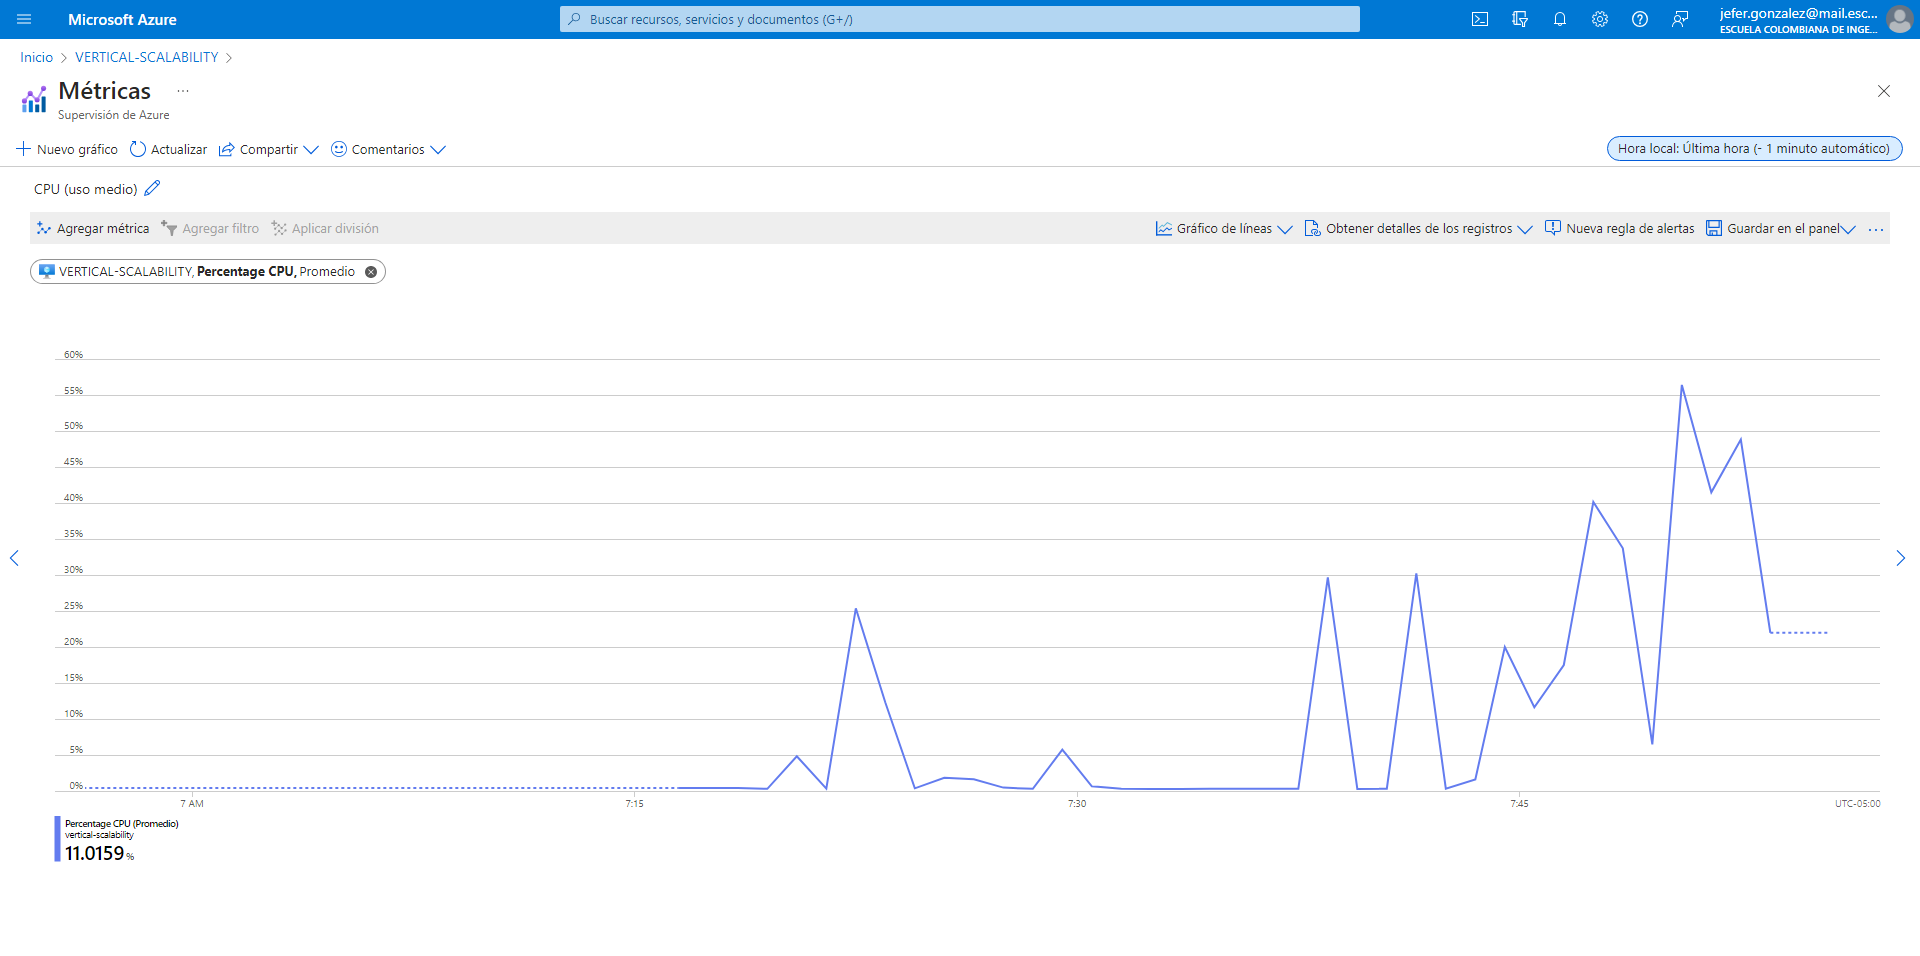
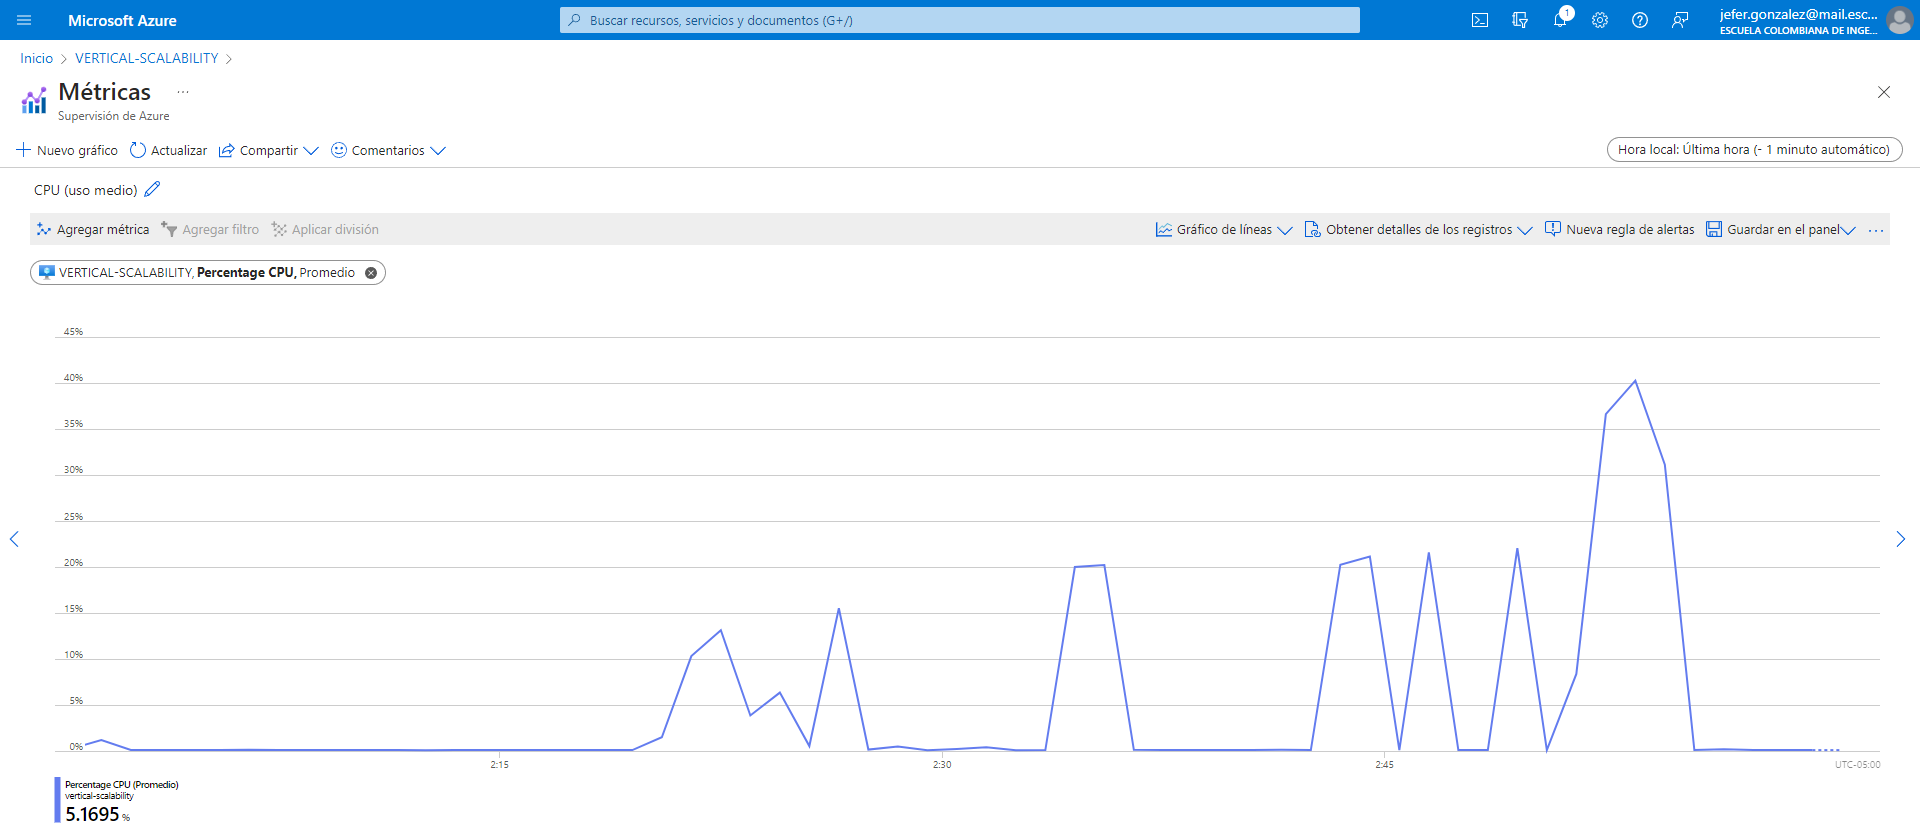
Laboratorio 9 ARSW

diff --git a/README.md b/README.md
@@ -47,26 +47,45 @@ Cuando un conjunto de usuarios consulta un enésimo número (superior a 1000000)
 ![](images/part1/part1-vm-3000InboudRule.png)
 
 7. La función que calcula en enésimo número de la secuencia de Fibonacci está muy mal construido y consume bastante CPU para obtener la respuesta. Usando la consola del Browser documente los tiempos de respuesta para dicho endpoint usando los siguintes valores:
-    * 1000000
-![Parte1-7A.png](images/part1/Parte1-7A.png)
-    * 1010000
-![Parte1-7B.png](images/part1/Parte1-7B.png)
-    * 1020000
-![Parte1-7C.png](images/part1/Parte1-7C.png)
-    * 1030000
-![Parte1-7D.png](images/part1/Parte1-7D.png)
-    * 1040000
-![Parte1-7E.png](images/part1/Parte1-7E.png)
-    * 1050000
-![Parte1-7F.png](images/part1/Parte1-7F.png)
-    * 1060000
-![Parte1-7G.png](images/part1/Parte1-7G.png)
-    * 1070000
-![Parte1-7H.png](images/part1/Parte1-7H.png)
-    * 1080000
-![Parte1-7I.png](images/part1/Parte1-7I.png)
-    * 1090000    
-![Parte1-7J.png](images/part1/Parte1-7J.png)
+* 1000000
+   
+    ![Parte1-7A.png](images/part1/Parte1-7A.png)
+
+* 1010000
+   
+    ![Parte1-7B.png](images/part1/Parte1-7B.png)
+
+* 1020000
+      
+    ![Parte1-7C.png](images/part1/Parte1-7C.png)
+    
+* 1030000
+    
+    ![Parte1-7D.png](images/part1/Parte1-7D.png)
+   
+* 1040000
+       
+    ![Parte1-7E.png](images/part1/Parte1-7E.png)
+     
+* 1050000
+          
+    ![Parte1-7F.png](images/part1/Parte1-7F.png)
+        
+* 1060000
+             
+    ![Parte1-7G.png](images/part1/Parte1-7G.png)
+
+* 1070000
+* 
+    ![Parte1-7H.png](images/part1/Parte1-7H.png)
+              
+* 1080000
+   
+    ![Parte1-7I.png](images/part1/Parte1-7I.png)
+                 
+* 1090000    
+   
+    ![Parte1-7J.png](images/part1/Parte1-7J.png)
 
 8. Dírijase ahora a Azure y verifique el consumo de CPU para la VM. (Los resultados pueden tardar 5 minutos en aparecer).
 
@@ -89,26 +108,45 @@ Cuando un conjunto de usuarios consulta un enésimo número (superior a 1000000)
 
 11. Una vez el cambio se vea reflejado, repita el paso 7, 8 y 9.
 
+* 1000000
+
+  ![Parte1-11A.png](images/part1/Parte1-11A.png)
+
 * 1010000
-  ![Parte1-7A.png](images/part1/Parte1-11A.png)
-* 1010000
-  ![Parte1-7B.png](images/part1/Parte1-11B.png)
+
+  ![Parte1-11B.png](images/part1/Parte1-11B.png)
+
 * 1020000
-  ![Parte1-7C.png](images/part1/Parte1-11C.png)
+
+  ![Parte1-11C.png](images/part1/Parte1-11C.png)
+
 * 1030000
-  ![Parte1-7D.png](images/part1/Parte1-11D.png)
+
+  ![Parte1-11D.png](images/part1/Parte1-11D.png)
+
 * 1040000
-  ![Parte1-7E.png](images/part1/Parte1-11E.png)
+
+  ![Parte1-11E.png](images/part1/Parte1-11E.png)
+
 * 1050000
-  ![Parte1-7F.png](images/part1/Parte1-11F.png)
+
+  ![Parte1-11F.png](images/part1/Parte1-11F.png)
+
 * 1060000
-  ![Parte1-7G.png](images/part1/Parte1-11G.png)
+
+  ![Parte1-11G.png](images/part1/Parte1-11G.png)
+
 * 1070000
-  ![Parte1-7H.png](images/part1/Parte1-11H.png)
+
+  ![Parte1-11H.png](images/part1/Parte1-11H.png)
+
 * 1080000
-  ![Parte1-7I.png](images/part1/Parte1-11I.png)
-* 1090000    
-  ![Parte1-7J.png](images/part1/Parte1-11J.png)
+
+  ![Parte1-11I.png](images/part1/Parte1-11I.png)
+
+* 1090000
+
+  ![Parte1-11J.png](images/part1/Parte1-11J.png)
 
 12. Evalue el escenario de calidad asociado al requerimiento no funcional de escalabilidad y concluya si usando este modelo de escalabilidad logramos cumplirlo.
 13. Vuelva a dejar la VM en el tamaño inicial para evitar cobros adicionales.
@@ -117,9 +155,43 @@ Cuando un conjunto de usuarios consulta un enésimo número (superior a 1000000)
 
 1. ¿Cuántos y cuáles recursos crea Azure junto con la VM?
 
+Se crean 7 recursos los cuales son:
+
+![Parte1-P1.png](images/part1/Parte1-P1.png)
+
 2. ¿Brevemente describa para qué sirve cada recurso?
+
+- **Máquina virtual:** Instancia de un sistema operativo que se ejecuta en la nube. Puede ser Windows o Linux y proporciona recursos informáticos, como CPU, memoria, almacenamiento y red, de manera virtualizada.  Las máquinas virtuales se pueden utilizar para ejecutar una variedad de aplicaciones y servicios, como sitios web, aplicaciones empresariales, bases de datos y análisis.
+- **Dirección IP pública:** Es una dirección IP única y accesible públicamente asignada a recursos como máquinas virtuales. Las direcciones IP públicas se utilizan para identificar dispositivos en Internet y permitir que se comuniquen entre sí.
+- **Grupo de seguridad de red:** Es un conjunto de reglas que controla el tráfico de red hacia y desde los recursos en una red virtual. Define reglas de filtrado de red que permiten o deniegan el tráfico basándose en la dirección IP, el puerto y el protocolo.
+- **Red virtual:** Es una red privada que se ejecuta en la nube. Las redes virtuales se utilizan para aislar los recursos de la nube y proporcionar seguridad.
+- **Interfaz de red:** Es un componente que conecta una máquina virtual a una red virtual. Contiene configuraciones de red, como direcciones IP y reglas de seguridad, y actúa como punto de conexión para la comunicación de red.
+- **Clave SSH:** Es una clave de cifrado que se utiliza para autenticar a los usuarios de SSH. SSH es un protocolo de red seguro que se utiliza para conectarse a máquinas virtuales y otros dispositivos.
+- **Disco:** Es un dispositivo de almacenamiento que se utiliza para almacenar datos. Los discos se pueden utilizar para almacenar datos de máquinas virtuales, aplicaciones y otros recursos de la nube.
+
 3. ¿Al cerrar la conexión ssh con la VM, por qué se cae la aplicación que ejecutamos con el comando `npm FibonacciApp.js`? ¿Por qué debemos crear un *Inbound port rule* antes de acceder al servicio?
-4. Adjunte tabla de tiempos e interprete por qué la función tarda tando tiempo.
+
+* Al cerrar la conexión SSH, se cierra la sesión SSH, que es el proceso que inicia la ejecución de la aplicación. Todos los procesos que se ejecutan como hijos de este proceso también se cierran, lo que incluye a la aplicación FibonacciApp.js.
+* Un Inbound port rule es una regla que permite que el tráfico de la red llegue a un puerto específico de la máquina virtual. En este caso, el puerto que debemos abrir es el 3000, ya que es el puerto en el que la aplicación FibonacciApp.js está escuchando.
+El Inbound port rule es necesario para que los clientes puedan acceder a la aplicación FibonacciApp.js. Sin este regla, el tráfico de la red será bloqueado por el firewall de la máquina virtual.
+
+6. Adjunte tabla de tiempos e interprete por qué la función tarda tanto tiempo.
+
+| Número de la secuencia de<br/>Fibonacci | Tiempo (s) B1ls | Tiempo (s) B2ms |
+|-----------------------------------------|-----------------|-----------------|
+| 1000000                                 | 12.18           | 8.86            |
+| 1010000                                 | 12.46           | 8.92            |
+| 1020000                                 | 12.55           | 9.18            |
+| 1030000                                 | 13.03           | 9.32            |
+| 1040000                                 | 13.21           | 9.41            |
+| 1050000                                 | 13.49           | 9.56            |
+| 1060000                                 | 13.80           | 9.69            |
+| 1070000                                 | 14.10           | 9.97            |
+| 1080000                                 | 15.46           | 10.17           |
+| 1090000                                 | 16.59           | 10.36           |
+
+La función tarda mucho tiempo en calcular los números de Fibonacci porque utiliza un método iterativo. Este método consiste en calcular cada número de Fibonacci a partir de los dos anteriores. Por ejemplo, para calcular el número 1000000, la función debe calcular primero los números 999999, 999998, ..., 0. Esto significa que la función debe realizar muchas operaciones matemáticas, lo que lleva tiempo.
+
 5. Adjunte imágen del consumo de CPU de la VM e interprete por qué la función consume esa cantidad de CPU.
 
 * Tamaños B1ls
@@ -130,6 +202,9 @@ Cuando un conjunto de usuarios consulta un enésimo número (superior a 1000000)
 
 ![Parte1-11K.png](images/part1/Parte1-11K.png)
 
+El consumo de CPU de la función Fibonacci se debe a que el algoritmo se ejecuta de manera recursiva. Esto significa que la función se llama a sí misma repetidamente, lo que genera una gran cantidad de llamadas a la CPU.
+En el caso específico de la implementación de la función Fibonacci que se está utilizando, no se utiliza ninguna técnica de optimización para reducir el consumo de CPU. Esto significa que la función se ejecuta de manera completamente secuencial, sin que se aprovechen los recursos del procesador de manera eficiente.
+
 7. Adjunte la imagen del resumen de la ejecución de Postman. 
 
 * Tamaños B1ls
@@ -138,17 +213,55 @@ Cuando un conjunto de usuarios consulta un enésimo número (superior a 1000000)
 
 * Tamaños B2ms
 
-![Parte1-P7B.png](images/part1/Parte1-P7B.png)
+![Parte1-P7B1.png](images/part1/Parte1-P7B1.png)
+
 
 Interprete:
 * Tiempos de ejecución de cada petición.
+
+    El tiempo de ejecución total usando el tamaño B1ls es de 2m 3.2s, en el cual el promedio de respuesta para cada petición fue de 12.2s. Al cambiar el tamaño a B2ms se reduce el tiempo de ejecución total a 1m 35.s y el tiempo de respuesta promedio para las peticiones fue de 10.3s.
+
 * Si hubo fallos documentelos y explique.
-   
-7. ¿Cuál es la diferencia entre los tamaños `B2ms` y `B1ls` (no solo busque especificaciones de infraestructura)?
-8. ¿Aumentar el tamaño de la VM es una buena solución en este escenario?, ¿Qué pasa con la FibonacciApp cuando cambiamos el tamaño de la VM?
-9. ¿Qué pasa con la infraestructura cuando cambia el tamaño de la VM? ¿Qué efectos negativos implica?
+
+    ![Parte1-P7B2.png](images/part1/Parte1-P7B2.png)
+
+
+    Cuando se cambio al tamaño B2ms se presentaron errores (Error ECONNRESET: El servidor cerró la conexión de una manera que probablemente no era normal), estos fallos se deben a que se genera una alta concurrencia en las peticiones, lo que provoca que la VM no pueda responder a todas las solicitudes a tiempo.
+
+
+8. ¿Cuál es la diferencia entre los tamaños `B2ms` y `B1ls` (no solo busque especificaciones de infraestructura)?
+
+    La diferencia entre los tamaños B2ms y B1ls radica en sus especificaciones de infraestructura, pero también en otros aspectos que son importantes a tener en cuenta, como la escalabilidad, el rendimiento y la disponibilidad.
+    
+    **Especificaciones de infraestructura**
+
+    ![Parte1-P8.png](images/part1/Parte1-P8.png)
+
+    **Escalabilidad:** El B2ms tiene una mayor capacidad de escalabilidad que el B1ls. Esto significa que puede manejar mayores volúmenes de datos y procesamiento más intensivo. 
+    
+    **Rendimiento:** El B2ms también tiene un rendimiento superior al B1ls. Esto significa que puede ejecutar tareas de manera más rápida y eficiente.
+    
+    **Disponibilidad:** El B1ls es más barato que el B2ms, pero también tiene una menor disponibilidad. Esto significa que es más probable que experimente tiempos de inactividad o errores.
+
+9. ¿Aumentar el tamaño de la VM es una buena solución en este escenario?, ¿Qué pasa con la FibonacciApp cuando cambiamos el tamaño de la VM?
+
+   Aumentar el tamaño de la VM no es una buena solución para mejorar el tiempo de respuesta de la aplicación FibonacciApp.js, ya que la aplicación no está optimizada para aprovechar los recursos de una VM de mayor tamaño. Para mejorar el tiempo de respuesta, se debe optimizar el código de la aplicación para que se ejecute en paralelo o para que utilice una estructura de datos más eficiente.
+
+10. ¿Qué pasa con la infraestructura cuando cambia el tamaño de la VM? ¿Qué efectos negativos implica?
+
+    Cuando se cambia el tamaño de una máquina virtual, esta se reinicia. Esto implica que la aplicación que se ejecuta en la máquina se detiene temporalmente, lo que puede provocar una pérdida de disponibilidad. Además, al reiniciar la máquina, se debe volver a iniciar el servicio que se ejecuta en ella.
+
 10. ¿Hubo mejora en el consumo de CPU o en los tiempos de respuesta? Si/No ¿Por qué?
+
+    Si hubo mejora en el consumo de CPU, cuando se tenía el tamaño de B1ls llego hasta un consumo de 40%, mientras que con el tamaño B2ms llegó hasta un poco mas de 20%.
+    En los tiempos de respuesta también hubo una disminución se pasó de un tiempo de respuesta promedio de las peticiones de 12.2s a 10.3s.
+    Estas mejoras se deben a que las máquinas con mayor tamaño tienen más recursos de procesamiento, lo que permite que las aplicaciones soporten más cálculos y conexiones.
+
 11. Aumente la cantidad de ejecuciones paralelas del comando de postman a `4`. ¿El comportamiento del sistema es porcentualmente mejor?
+
+    ![Parte1-P7B1.png](images/part1/Parte1-P11B.png)
+
+  Al cambiar la cantidad de ejecuciones paralelas del comando de postman a `4` no se obtuvo mejoras en el sistema, ya que se aumentó el tiempo promedio de respuesta de 10.3s a 24.1s y el tiempo total pasó de 1m 35.1s a 3m 17s. Además, se obtuvieron la misma cantidad de fallos al realizar la prueba de carga con newman. 
 
 ### Parte 2 - Escalabilidad horizontal
 
@@ -237,15 +350,73 @@ newman run ARSW_LOAD-BALANCING_AZURE.postman_collection.json -e [ARSW_LOAD-BALAN
 **Preguntas**
 
 * ¿Cuáles son los tipos de balanceadores de carga en Azure y en qué se diferencian?, ¿Qué es SKU, qué tipos hay y en qué se diferencian?, ¿Por qué el balanceador de carga necesita una IP pública?
+
+    * Azure ofrece dos tipos de balanceadores de carga:
+        - **Balanceador de carga público:** Proporciona conexiones salientes para máquinas virtuales dentro de su misma red virtual, mediante la traducción de sus direcciones IP privadas a direcciones IP públicas. Las instancias públicas de Load Balancer se usan para equilibrar la carga del tráfico de Internet en las máquinas virtuales.
+        - **Balanceador de carga privado:** Se usa cuando se necesitan direcciones IP privadas solo en el front-end. Los equilibradores de carga internos se usan para equilibrar la carga del tráfico dentro de una red virtual. También se puede acceder a un servidor front-end del equilibrador de carga desde una red local en un escenario híbrido.
+    * SKU (Stock Keeping Unit) es una unidad de mantenimiento de existencias que se utiliza para identificar y clasificar productos o servicios. En Azure, los SKU se utilizan para definir el nivel de servicio y las características de un producto o servicio. En el caso de los equilibradores de carga de Azure, existen dos tipos de SKU:
+      - **SKU básico:** Este SKU ofrece un nivel de servicio básico con características limitadas.
+      - **SKU estándar:** Este SKU ofrece un nivel de servicio más completo con características adicionales, como un mayor rendimiento, más zonas de disponibilidad y más operaciones por segundo.
+    * El balanceador de carga actúa como el único punto con el que los clientes interactúan con la aplicación. Es el encargado de distribuir el tráfico entre varios nodos disponibles. Para que los clientes puedan acceder al balanceador de carga, es necesario que tenga una dirección IP pública.
 * ¿Cuál es el propósito del *Backend Pool*?
+  
+  El propósito del Backend Pool es definir un conjunto de recursos que recibirán el tráfico para una regla de equilibrio de carga determinada. Estos recursos pueden ser máquinas virtuales, contenedores, o cualquier otro tipo de recurso que pueda proporcionar una respuesta HTTP o HTTPS.
+  El Backend Pool se encarga de dos tareas principales:
+  * **Equilibrar el tráfico entre los recursos del pool.** El equilibrador de carga utiliza un algoritmo para distribuir el tráfico de manera uniforme entre los recursos del pool. Esto ayuda a garantizar que todos los recursos reciban una carga equitativa y que la aplicación pueda manejar el tráfico entrante.
+  * **Evaluar el estado de los recursos del pool.** El equilibrador de carga utiliza sondas de estado para comprobar el estado de los recursos del pool. Si un recurso no está disponible, el equilibrador de carga lo eliminará del pool para evitar que el tráfico se dirija a él.
+
 * ¿Cuál es el propósito del *Health Probe*?
+
+  El propósito del Health Probe es determinar el estado de los recursos que se encuentran en un grupo de back-end. El equilibrador de carga utiliza los resultados de las sondas de estado para decidir si un recurso está disponible para recibir tráfico.
+
 * ¿Cuál es el propósito de la *Load Balancing Rule*? ¿Qué tipos de sesión persistente existen, por qué esto es importante y cómo puede afectar la escalabilidad del sistema?.
+
+  * El propósito de la Load Balancing Rule es definir cómo se distribuye el tráfico entrante a todas las instancias dentro del grupo de back-end. Una regla de equilibrio de carga asigna una configuración de IP y un puerto front-end determinados a varias direcciones IP y puertos de back-end. Las reglas de Load Balancer son solo para el tráfico entrante.
+  * En Azure existen tres tipos de sesión de persistencia:
+    - **None (hash-based):** Especifica que las solicitudes sucesivas del mismo cliente pueden ser manejadas por cualquier máquina virtual.
+    - **Client IP (source IP affinity 2-tuple):** Especifica que las peticiones sucesivas de la misma dirección IP del cliente serán gestionadas por la misma máquina virtual.
+    - **Client IP and Protocol (Source IP affinity 3-tuple):** Especifica que las solicitudes sucesivas de la misma combinación de dirección IP de cliente y protocolo serán tratadas por la misma máquina virtual.
+    
+    La importancia de la sesión persistente radica en que permite que las solicitudes de un mismo cliente se dirijan a la misma instancia de back-end. Esto puede ser importante para aplicaciones que requieren mantener una sesión con el cliente, como las aplicaciones web que utilizan cookies o sesiones HTTP.
+    
+    La sesión persistente puede afectar la escalabilidad del sistema de varias maneras. En el caso de la sesión persistente de tipo None, cualquier instancia de back-end puede atender una solicitud de un cliente, lo que facilita la escalabilidad horizontal. Sin embargo, también puede reducir el rendimiento, ya que el balanceador de carga debe realizar más trabajo para determinar qué instancia de back-end debe atender una solicitud.
+
 * ¿Qué es una *Virtual Network*? ¿Qué es una *Subnet*? ¿Para qué sirven los *address space* y *address range*?
+
+  * Una Virtual Network (VNet) es una representación de una red propia en la nube. Es un aislamiento lógico de la nube de Azure dedicada a la suscripción del usuario. 
+  * Una Subnet es un rango de direcciones lógicas. En Azure la Subnet permite segmentar la red virtual en una o más subredes y asignar una parte del espacio de direcciones de la Virtual Network a cada subred.
+  * Los address space sirven para asignar un rango de direcciones IP privadas a la Virtual Network y los address range sirven para asignar un rango de direcciones IP privadas a la Subnet.
 * ¿Qué son las *Availability Zone* y por qué seleccionamos 3 diferentes zonas?. ¿Qué significa que una IP sea *zone-redundant*?
+
+  * Las Availability Zones (AZ) son ubicaciones físicas únicas dentro de una región de Azure. Cada AZ está compuesta por uno o más centros de datos equipados con alimentación, refrigeración y redes independientes.
+    Seleccionamos 3 diferentes AZ para proteger nuestras aplicaciones y datos de fallas del centro de datos. Si una AZ falla, las otras dos AZ seguirán estando disponibles para servir a las aplicaciones.
+  * Una IP zone-redundant es una IP que está disponible en todas las AZ de una región. Esto significa que si una AZ falla, las otras AZ seguirán siendo capaces de acceder a los recursos que se encuentran en la IP. 
+    Las IP zone-redundant son útiles para aplicaciones que requieren alta disponibilidad.
 * ¿Cuál es el propósito del *Network Security Group*?
+
+  El propósito del Network Security Group (NSG) es filtrar el tráfico de red hacia y desde los recursos de Azure en una red virtual de Azure. Un NSG contiene reglas de seguridad que permiten o niegan el tráfico de red entrante o saliente desde varios tipos de recursos de Azure.
 * Informe de newman 1 (Punto 2)
+    
+    **Solo se pudieron crear 2 Máquinas virtuales, ya que la suscripción de estudiantes de Azure tiene un límite de IP públicas que es de 3, las cuales se usan en: IP del balanceador de carga, IP de VM1 y IP de VM2** 
+    
+    Verificamos que los servicios básicos están funcionando:
+    
+    ![Parte2-1A.png](images/part1/Parte2-1A.png)
+    
+    ![Parte2-1B.png](images/part1/Parte2-1B.png)
+
+    Realizamos las pruebas de carga con newman que se realizaron en la parte 1:
+
+    ![Parte2-2.png](images/part1/Parte2-2.png)
+
+    En comparación con los resultados obtenidos en la parte 1 se obtuvo un tiempo total y un tiempo promedio de respuesta mayor que cuando se usó el tamaño B1ls.
+    
+    En este caso no se obtuvo ningún error (Todas las peticiones fueron respondidas con éxito), caso contrario cuando se realizó la prueba de carga con newman teniendo la carga de B2ms.
+    
+    El costo de hacer el escalamiento horizontal es de **$8.32** mensuales, ya que se usaron 2 máquinas virtuales, cada una con tamaño de B1ls que tiene un costo de $4.16 mensuales. El escalamiento vertical es más caro, al tener una máquina virtual con tamaño de B2ms mensualmente cuesta **$66.43**.
+
 * Presente el Diagrama de Despliegue de la solución.
 
-
+    ![Parte2-3.png](images/part1/Parte2-3.png)
 
 
